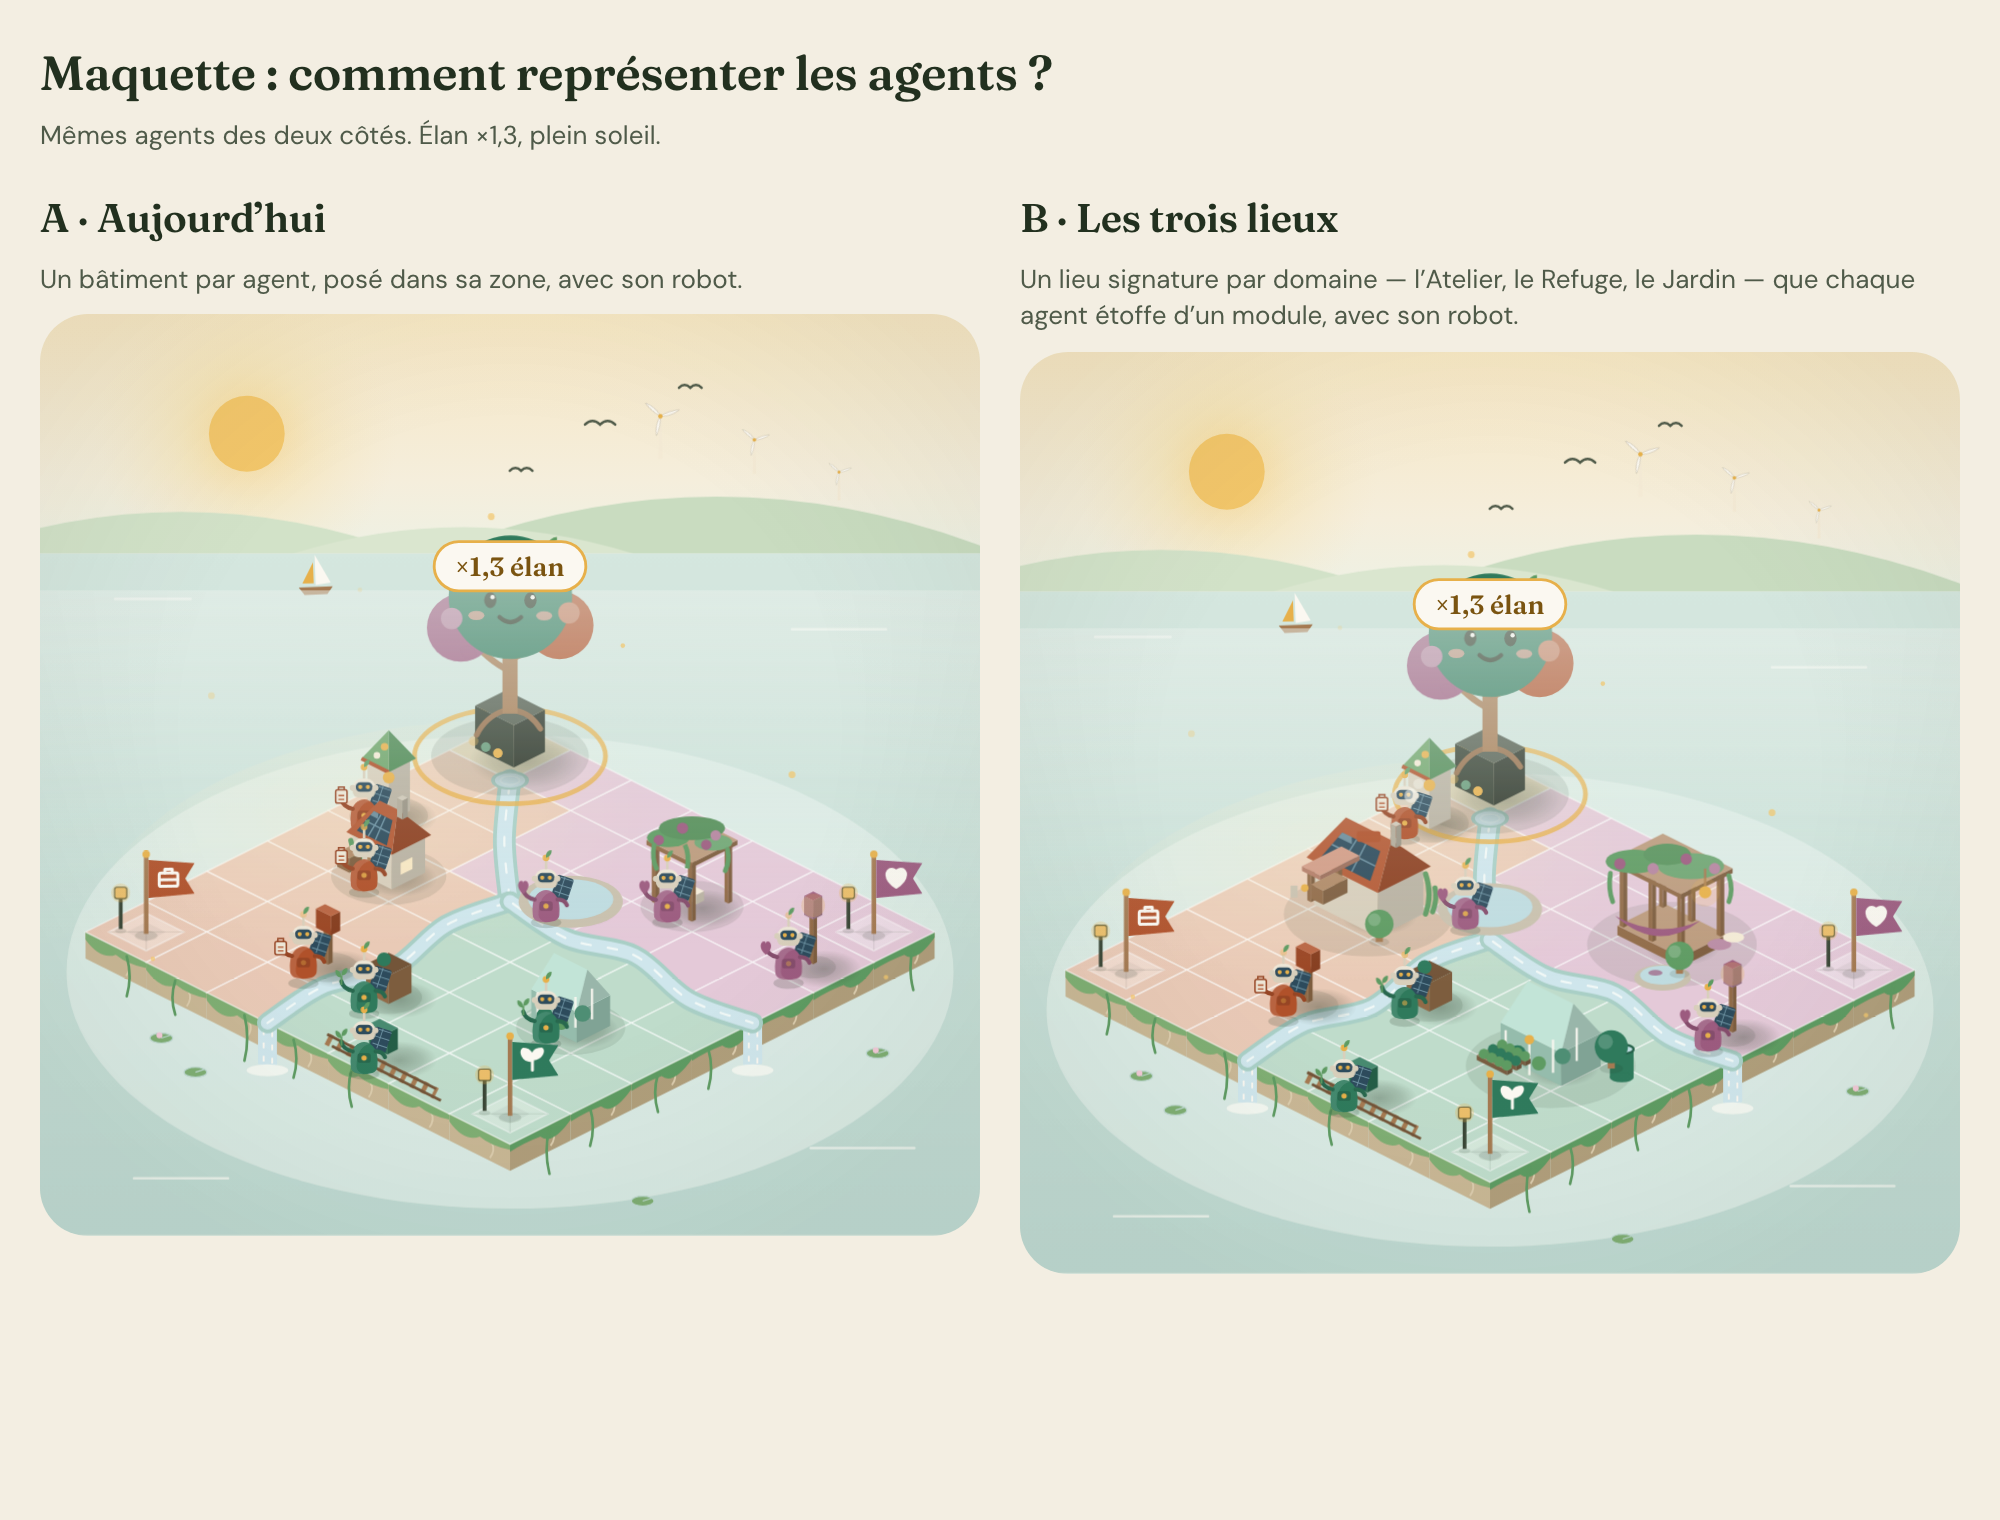
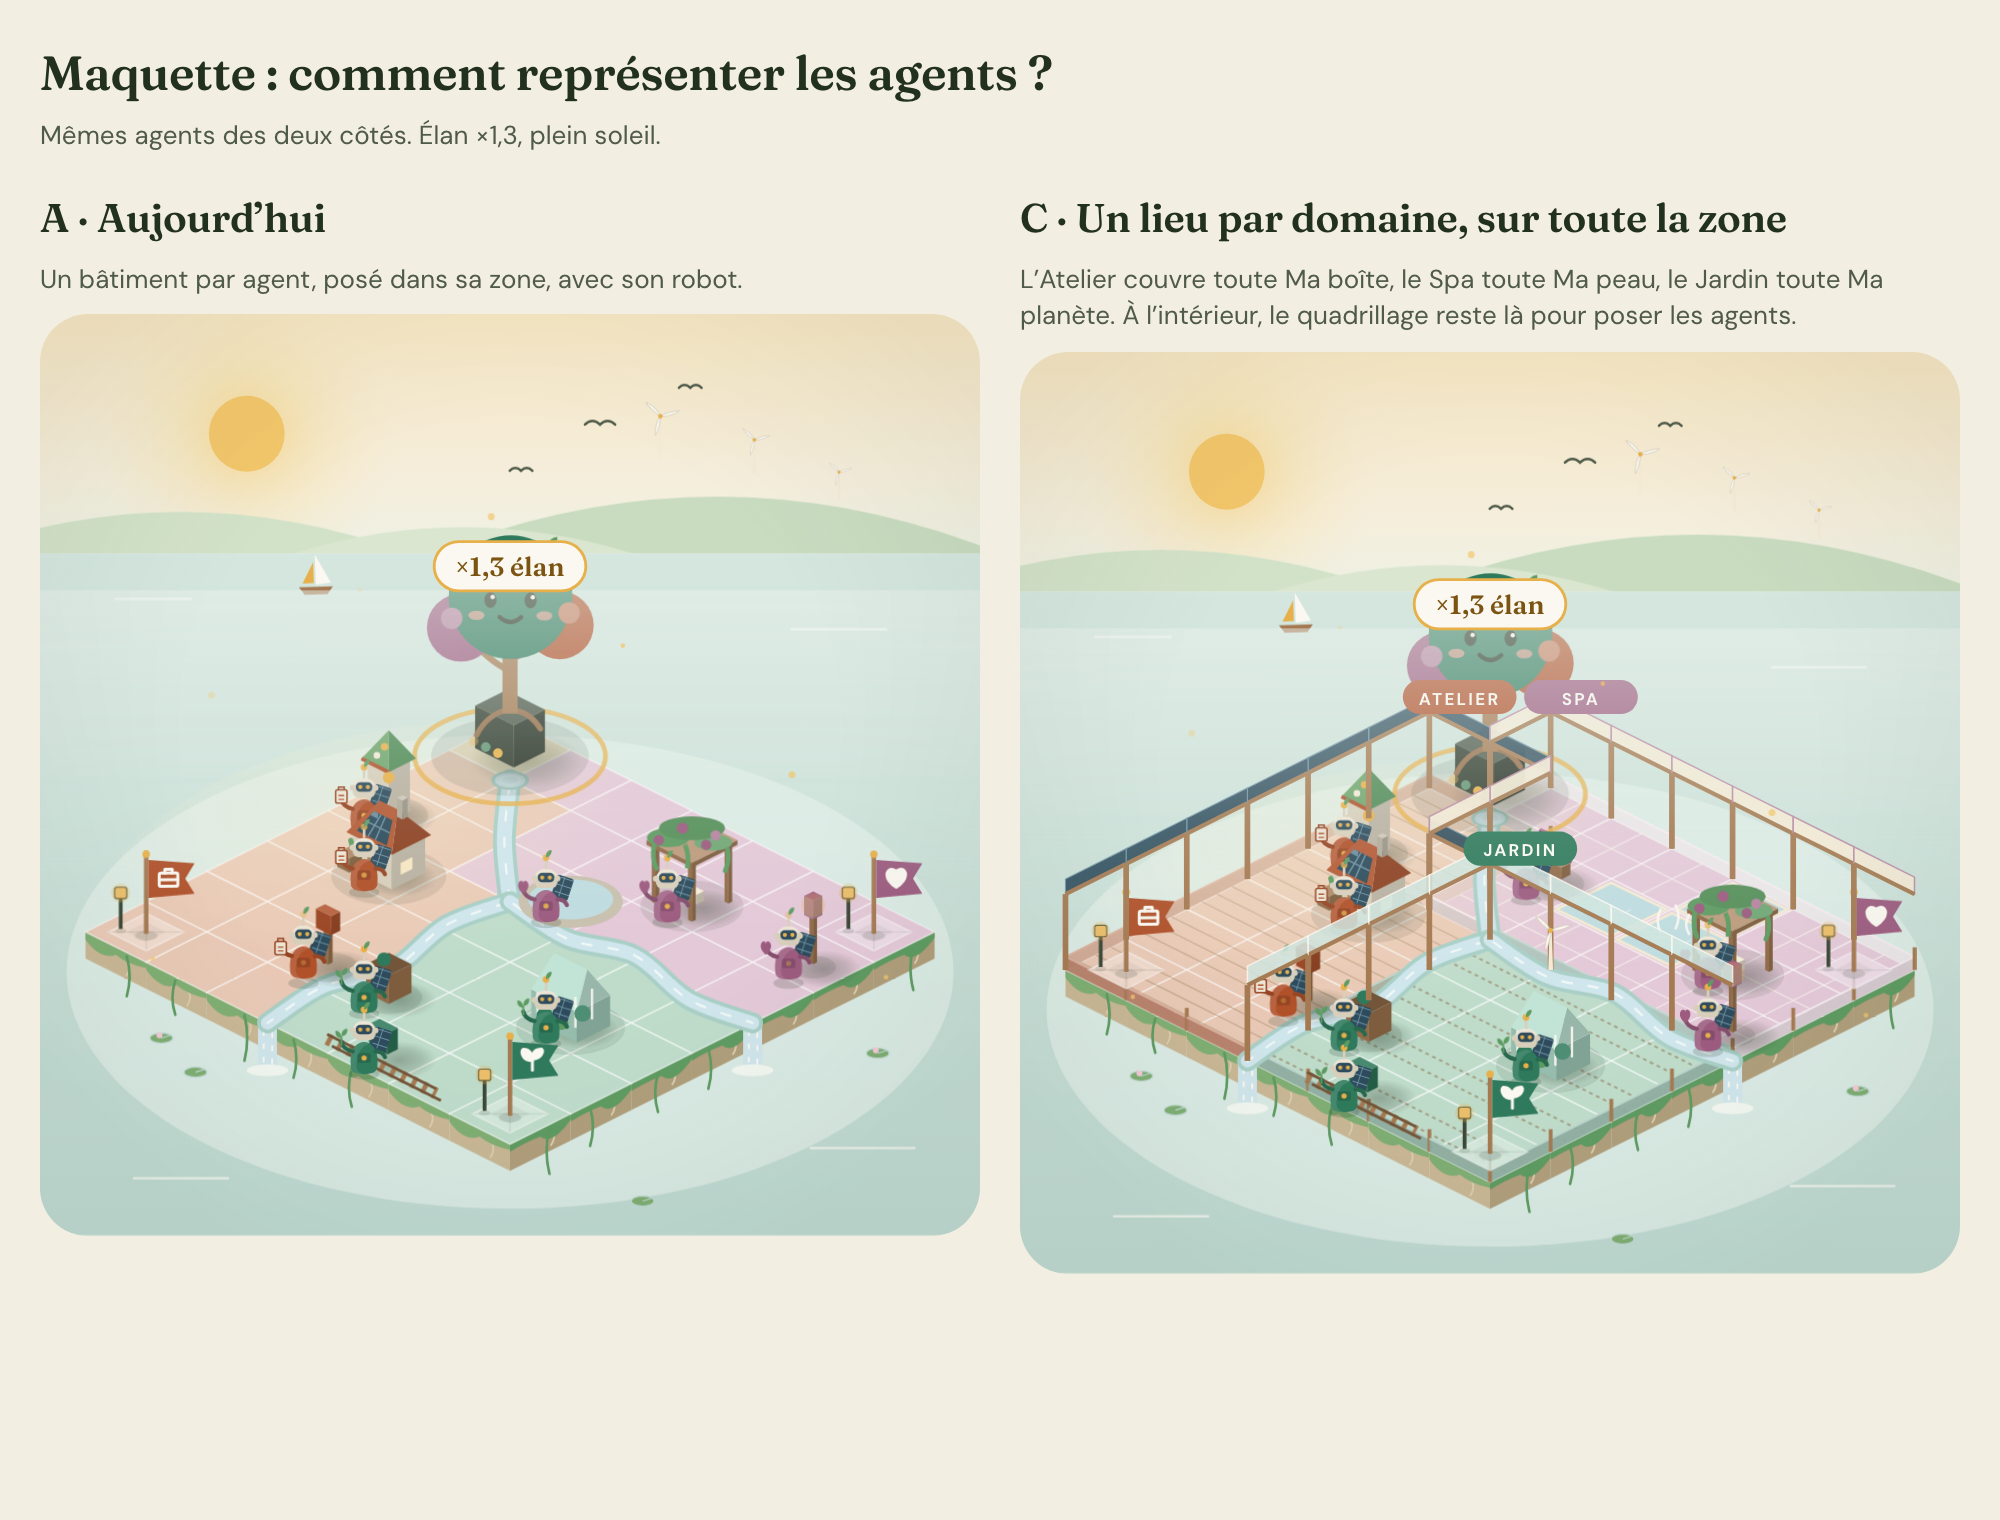
Maquette C : un lieu par domaine sur toute la zone (Atelier, Spa, Jardin)
- Couche LieuxZones : chaque zone devient un grand lieu ouvert qui épouse
  ses tuiles — sol typé (planches, dallage + bassin, rangs), enceinte
  (muret et poteaux sur la bordure), façade au fond (colonnes, poutres,
  toiture signature, enseigne), vapeur du spa, éolienne du jardin.
  Le quadrillage intérieur reste visible pour poser les agents.
- Island : prop lieux (maquette). Page /maquette : A face à C.
- Script de capture déplacé dans scripts/.

Changed region(s): [[0.527, 0.4329, 0.961, 0.773], [0.496, 0.1237, 0.899, 0.2164], [0.899, 0.1546, 0.93, 0.1855]]

diff --git a/src/island/LieuxZones.tsx b/src/island/LieuxZones.tsx
@@ -1,0 +1,195 @@
+import type { Domaine, Tuile } from '../domain/types'
+import { COULEUR } from '../domain/couleurs'
+import { TH, TW, cle, iso } from './iso'
+import { BOIS, Eolienne, nuance } from './buildings/primitives'
+
+/**
+ * « Les lieux sur tout le domaine » : chaque zone devient un grand bâtiment
+ * ouvert (l'Atelier, le Spa, le Jardin couvert) qui épouse exactement ses
+ * tuiles. À l'intérieur, le quadrillage reste visible pour poser les agents.
+ *
+ * Deux couches : le sol et l'enceinte (sous les bâtiments), puis la façade
+ * (colonnes, poutres, toiture signature) au-dessus, sur les bords du fond
+ * seulement, pour ne jamais masquer l'intérieur.
+ */
+
+type Pt = [number, number]
+type Cote = 'bl' | 'br' | 'fl' | 'fr' // back-left, back-right, front-left, front-right
+
+interface Arete {
+  a: Pt
+  b: Pt
+  cote: Cote
+  t: Tuile
+}
+
+const NOM: Record<Domaine, string> = { boite: 'ATELIER', peau: 'SPA', planete: 'JARDIN' }
+
+/** Arêtes de bordure d'une zone : celles dont le voisin n'est pas de la même zone. */
+function aretesZone(tuiles: Tuile[], zone: Domaine): Arete[] {
+  const dansZone = new Set(tuiles.filter((t) => t.zone === zone).map((t) => cle(t.x, t.y)))
+  const out: Arete[] = []
+  for (const t of tuiles) {
+    if (t.zone !== zone) continue
+    const { sx, sy } = iso(t.x, t.y)
+    const haut: Pt = [sx, sy - TH], droite: Pt = [sx + TW, sy], bas: Pt = [sx, sy + TH], gauche: Pt = [sx - TW, sy]
+    if (!dansZone.has(cle(t.x, t.y - 1))) out.push({ a: haut, b: droite, cote: 'br', t })
+    if (!dansZone.has(cle(t.x - 1, t.y))) out.push({ a: gauche, b: haut, cote: 'bl', t })
+    if (!dansZone.has(cle(t.x + 1, t.y))) out.push({ a: droite, b: bas, cote: 'fr', t })
+    if (!dansZone.has(cle(t.x, t.y + 1))) out.push({ a: bas, b: gauche, cote: 'fl', t })
+  }
+  return out
+}
+
+const pts = (...p: Pt[]) => p.map((q) => q.join(',')).join(' ')
+const lever = ([x, y]: Pt, h: number): Pt => [x, y - h]
+
+/** Sol typé par lieu (planches, dallage et bassin, rangs de culture). */
+function SolLieu({ t, zone, bassin }: { t: Tuile; zone: Domaine; bassin: boolean }) {
+  const { sx, sy } = iso(t.x, t.y)
+  if (zone === 'boite') {
+    // Planches de bois, parallèles au bord avant-gauche
+    return (
+      <g stroke={nuance('#D9B48E', -0.18)} strokeWidth={0.7} opacity={0.6}>
+        {[0.25, 0.5, 0.75].map((u) => (
+          <line key={u} x1={sx - TW + TW * u} y1={sy - TH * u} x2={sx + TW * u} y2={sy + TH - TH * u} />
+        ))}
+      </g>
+    )
+  }
+  if (zone === 'peau') {
+    if (bassin) {
+      return (
+        <g>
+          <polygon points={pts([sx, sy - TH + 2], [sx + TW - 3, sy], [sx, sy + TH - 2], [sx - TW + 3, sy])} fill="#BFDCE0" stroke="#F4EAD5" strokeWidth={1.4} />
+          <path className="source-ride" d={`M ${sx - 8} ${sy} q 4 -3 8 0 q 4 3 8 0`} stroke="#FBF8F1" strokeWidth={0.9} fill="none" opacity={0.8} />
+        </g>
+      )
+    }
+    // Dallage clair
+    return (
+      <g stroke="#FBF8F1" strokeWidth={0.6} opacity={0.7}>
+        <line x1={sx - TW / 2} y1={sy - TH / 2} x2={sx + TW / 2} y2={sy + TH / 2} />
+        <line x1={sx + TW / 2} y1={sy - TH / 2} x2={sx - TW / 2} y2={sy + TH / 2} />
+      </g>
+    )
+  }
+  // Rangs de culture
+  return (
+    <g stroke="#8A6A4A" strokeWidth={1.1} strokeDasharray="2 2" opacity={0.5}>
+      {[0.3, 0.6].map((u) => (
+        <line key={u} x1={sx - TW + TW * u} y1={sy - TH * u} x2={sx + TW * u} y2={sy + TH - TH * u} />
+      ))}
+    </g>
+  )
+}
+
+/** Couche basse : sols et enceinte (muret + poteaux). À dessiner sous les bâtiments. */
+export function LieuxSol({ tuiles }: { tuiles: Tuile[] }) {
+  const zones: Domaine[] = ['boite', 'peau', 'planete']
+  // Bassin du Spa : les deux tuiles les plus centrales de la zone peau
+  const peau = tuiles.filter((t) => t.zone === 'peau')
+  const centre = peau.reduce((s, t) => [s[0] + t.x / peau.length, s[1] + t.y / peau.length], [0, 0])
+  const bassin = new Set(
+    [...peau]
+      .sort((a, b) => Math.hypot(a.x - centre[0], a.y - centre[1]) - Math.hypot(b.x - centre[0], b.y - centre[1]))
+      .slice(0, 3)
+      .map((t) => cle(t.x, t.y)),
+  )
+  return (
+    <g aria-hidden>
+      {tuiles.filter((t) => t.zone !== 'coeur').map((t) => (
+        <SolLieu key={cle(t.x, t.y)} t={t} zone={t.zone as Domaine} bassin={bassin.has(cle(t.x, t.y))} />
+      ))}
+      {zones.map((z) => {
+        const c = COULEUR[z]
+        const mur = z === 'boite' ? nuance(c, 0.35) : z === 'peau' ? '#F1E4EA' : nuance(c, 0.55)
+        const aretes = aretesZone(tuiles, z)
+        const h = 7
+        return (
+          <g key={z}>
+            {aretes.map((ar, i) => (
+              <g key={i}>
+                <polygon points={pts(ar.a, ar.b, lever(ar.b, h), lever(ar.a, h))} fill={ar.cote.startsWith('f') ? nuance(mur, -0.12) : mur} opacity={ar.cote.startsWith('f') ? 0.92 : 0.7} />
+                <line x1={ar.a[0]} y1={ar.a[1] - h} x2={ar.b[0]} y2={ar.b[1] - h} stroke={nuance(mur, 0.3)} strokeWidth={1} />
+                <rect x={ar.a[0] - 1} y={ar.a[1] - h - 5} width={2} height={h + 5} fill={BOIS} />
+              </g>
+            ))}
+          </g>
+        )
+      })}
+    </g>
+  )
+}
+
+/** Couche haute : colonnes, poutres et toiture signature sur les bords du fond. */
+export function LieuxHaut({ tuiles }: { tuiles: Tuile[] }) {
+  const zones: Domaine[] = ['boite', 'peau', 'planete']
+  const H = 40
+  return (
+    <g aria-hidden>
+      {zones.map((z) => {
+        const c = COULEUR[z]
+        const fond = aretesZone(tuiles, z).filter((ar) => ar.cote === 'bl' || ar.cote === 'br')
+        // Enseigne : au-dessus de l'arête du fond la plus haute à l'écran
+        const plusHaut = fond.reduce<Arete | null>((m, ar) => (!m || ar.a[1] + ar.b[1] < m.a[1] + m.b[1] ? ar : m), null)
+        return (
+          <g key={z}>
+            {fond.map((ar, i) => {
+              const a2 = lever(ar.a, H), b2 = lever(ar.b, H)
+              return (
+                <g key={i}>
+                  {/* Toiture signature au-dessus de l'arête du fond */}
+                  {z === 'boite' && (
+                    <polygon points={pts(a2, b2, lever(b2, 8), lever(a2, 8))} fill="#2D4B5C" stroke="#6E93A3" strokeWidth={0.6} opacity={0.95} />
+                  )}
+                  {z === 'peau' && (
+                    <polygon points={pts(a2, b2, lever(b2, 9), lever(a2, 9))} fill="#F4EAD5" stroke={nuance(c, 0.3)} strokeWidth={0.8} opacity={0.95} />
+                  )}
+                  {z === 'planete' && (
+                    <polygon points={pts(a2, b2, lever(b2, 10), lever(a2, 10))} fill="#CFE6E0" stroke="#FBF8F1" strokeWidth={0.8} opacity={0.85} />
+                  )}
+                  {/* Poutre et colonne */}
+                  <line x1={a2[0]} y1={a2[1]} x2={b2[0]} y2={b2[1]} stroke={BOIS} strokeWidth={2.2} />
+                  <rect x={ar.a[0] - 1.5} y={ar.a[1] - H} width={3} height={H} fill={BOIS} />
+                </g>
+              )
+            })}
+            {/* Enseigne du lieu */}
+            {plusHaut && (() => {
+              const mx = (plusHaut.a[0] + plusHaut.b[0]) / 2
+              const my = (plusHaut.a[1] + plusHaut.b[1]) / 2 - H - 16
+              return (
+                <g transform={`translate(${mx} ${my})`}>
+                  <rect x={-30} y={-9} width={60} height={18} rx={9} fill={c} />
+                  <text x={0} y={4} textAnchor="middle" fontFamily="DM Sans, sans-serif" fontSize={9} fontWeight={700} fill="#FBF8F1" letterSpacing={1.2}>
+                    {NOM[z]}
+                  </text>
+                </g>
+              )
+            })()}
+            {/* Vapeur du spa, éolienne du jardin */}
+            {z === 'peau' && (() => {
+              const peau = tuiles.filter((t) => t.zone === 'peau')
+              const cx = peau.reduce((s, t) => s + t.x, 0) / peau.length
+              const cy = peau.reduce((s, t) => s + t.y, 0) / peau.length
+              const { sx, sy } = iso(Math.round(cx), Math.round(cy))
+              return (
+                <g className="vapeur" stroke="#FBF8F1" strokeWidth={1.4} fill="none" strokeLinecap="round" opacity={0.85}>
+                  <path d={`M ${sx - 6} ${sy - 4} q -3 -6 0 -12`} />
+                  <path d={`M ${sx + 2} ${sy - 6} q 3 -6 0 -12`} />
+                  <path d={`M ${sx + 9} ${sy - 3} q -3 -5 0 -10`} />
+                </g>
+              )
+            })()}
+            {z === 'planete' && plusHaut && (
+              <g transform={`translate(${plusHaut.b[0]} ${plusHaut.b[1]})`}>
+                <Eolienne h={26} echelle={0.8} />
+              </g>
+            )}
+          </g>
+        )
+      })}
+    </g>
+  )
+}

diff --git a/src/screens/Maquette.tsx b/src/screens/Maquette.tsx
@@ -26,16 +26,16 @@ const ACTUEL: PlacementVue[] = [
   P('deplacements', 4, 6, 'petit-rail', 'planete'),
 ]
 
-/** B — les trois lieux : un lieu signature par domaine + les modules des agents. */
-const TROIS_LIEUX: PlacementVue[] = [
-  P('atelier', 1, 3, 'atelier', 'boite', 2, true),
+/** C — chaque domaine est un grand lieu : les agents se posent sur le quadrillage intérieur. */
+const LIEUX_ENTIERS: PlacementVue[] = [
+  P('factures', 1, 3, 'cabane', 'boite', 2),
   P('relance', 2, 5, 'boite-aux-lettres', 'boite'),
-  P('vigie', 0, 1, 'tour-de-guet', 'boite'),
-  P('refuge', 4, 1, 'refuge', 'peau', 2, true),
+  P('vigie', 0, 2, 'tour-de-guet', 'boite'),
+  P('rythme', 5, 1, 'pergola', 'peau', 2),
   P('cloture', 6, 2, 'lanterne', 'peau'),
-  P('miroir', 2, 2, 'bassin', 'peau'),
-  P('jardin', 5, 4, 'jardin', 'planete', 2, true),
-  P('sobriete', 3, 4, 'composteur', 'planete'),
+  P('miroir', 2, 1, 'banc', 'peau'),
+  P('empreinte', 5, 4, 'serre', 'planete', 2),
+  P('sobriete', 3, 5, 'composteur', 'planete'),
   P('deplacements', 4, 6, 'petit-rail', 'planete'),
 ]
 
@@ -55,9 +55,9 @@ export function Maquette() {
           <Island tuiles={tuiles} placements={ACTUEL} elan={1.3} meteo="soleil" />
         </div>
         <div style={styleCol}>
-          <h2 style={titre}>B · Les trois lieux</h2>
-          <p style={sous}>Un lieu signature par domaine — l’Atelier, le Refuge, le Jardin — que chaque agent étoffe d’un module, avec son robot.</p>
-          <Island tuiles={tuiles} placements={TROIS_LIEUX} elan={1.3} meteo="soleil" />
+          <h2 style={titre}>C · Un lieu par domaine, sur toute la zone</h2>
+          <p style={sous}>L’Atelier couvre toute Ma boîte, le Spa toute Ma peau, le Jardin toute Ma planète. À l’intérieur, le quadrillage reste là pour poser les agents.</p>
+          <Island tuiles={tuiles} placements={LIEUX_ENTIERS} elan={1.3} meteo="soleil" lieux />
         </div>
       </div>
     </div>

diff --git a/src/island/Island.tsx b/src/island/Island.tsx
@@ -12,6 +12,7 @@ import { lumiereDepuisElan, type Meteo } from '../domain/economy'
 import type { Chaine } from '../domain/chains'
 import { getAmbiance, type AmbianceId, type DecorId } from '../domain/boutique'
 import { Decor } from './Decor'
+import { LieuxHaut, LieuxSol } from './LieuxZones'
 import { formatElan } from '../ui/EnTete'
 import './island.css'
 
@@ -72,6 +73,8 @@ interface Props {
   ambiance?: AmbianceId
   /** Tap sur un décor : le retirer. */
   onDecorTap?: (id: string) => void
+  /** Maquette : chaque domaine devient un grand lieu ouvert (Atelier, Spa, Jardin). */
+  lieux?: boolean
 }
 
 const SOL: Record<Tuile['zone'], string> = {
@@ -124,6 +127,7 @@ export function Island({
   decors = [],
   ambiance = 'jour',
   onDecorTap,
+  lieux = false,
 }: Props) {
   const amb = getAmbiance(ambiance)
   const index = useMemo(() => new Set(tuiles.map((t) => cle(t.x, t.y))), [tuiles])
@@ -286,6 +290,8 @@ export function Island({
         })}
       </g>
 
+      {lieux && <LieuxSol tuiles={tuiles} />}
+
       {/* Lumière chaude du soleil sur l'île : plus l'élan est fort, plus elle réchauffe */}
       <ellipse cx={cx} cy={b.maxY - (b.maxY - b.minY) / 2} rx={(b.maxX - b.minX) / 2} ry={(b.maxY - b.minY) / 2} fill="url(#lumiereJour)" opacity={amb.astre === 'lune' ? 0 : lumiereDepuisElan(elan ?? 1)} pointerEvents="none" />
 
@@ -428,6 +434,8 @@ export function Island({
           )
         })}
       </g>
+
+      {lieux && <LieuxHaut tuiles={tuiles} />}
 
       {/* Perspective aérienne : le fond de l'île s'éclaircit légèrement */}
       <rect x={x0} y={y0 + H * 0.3} width={W} height={H * 0.55} fill="url(#haze)" pointerEvents="none" />
